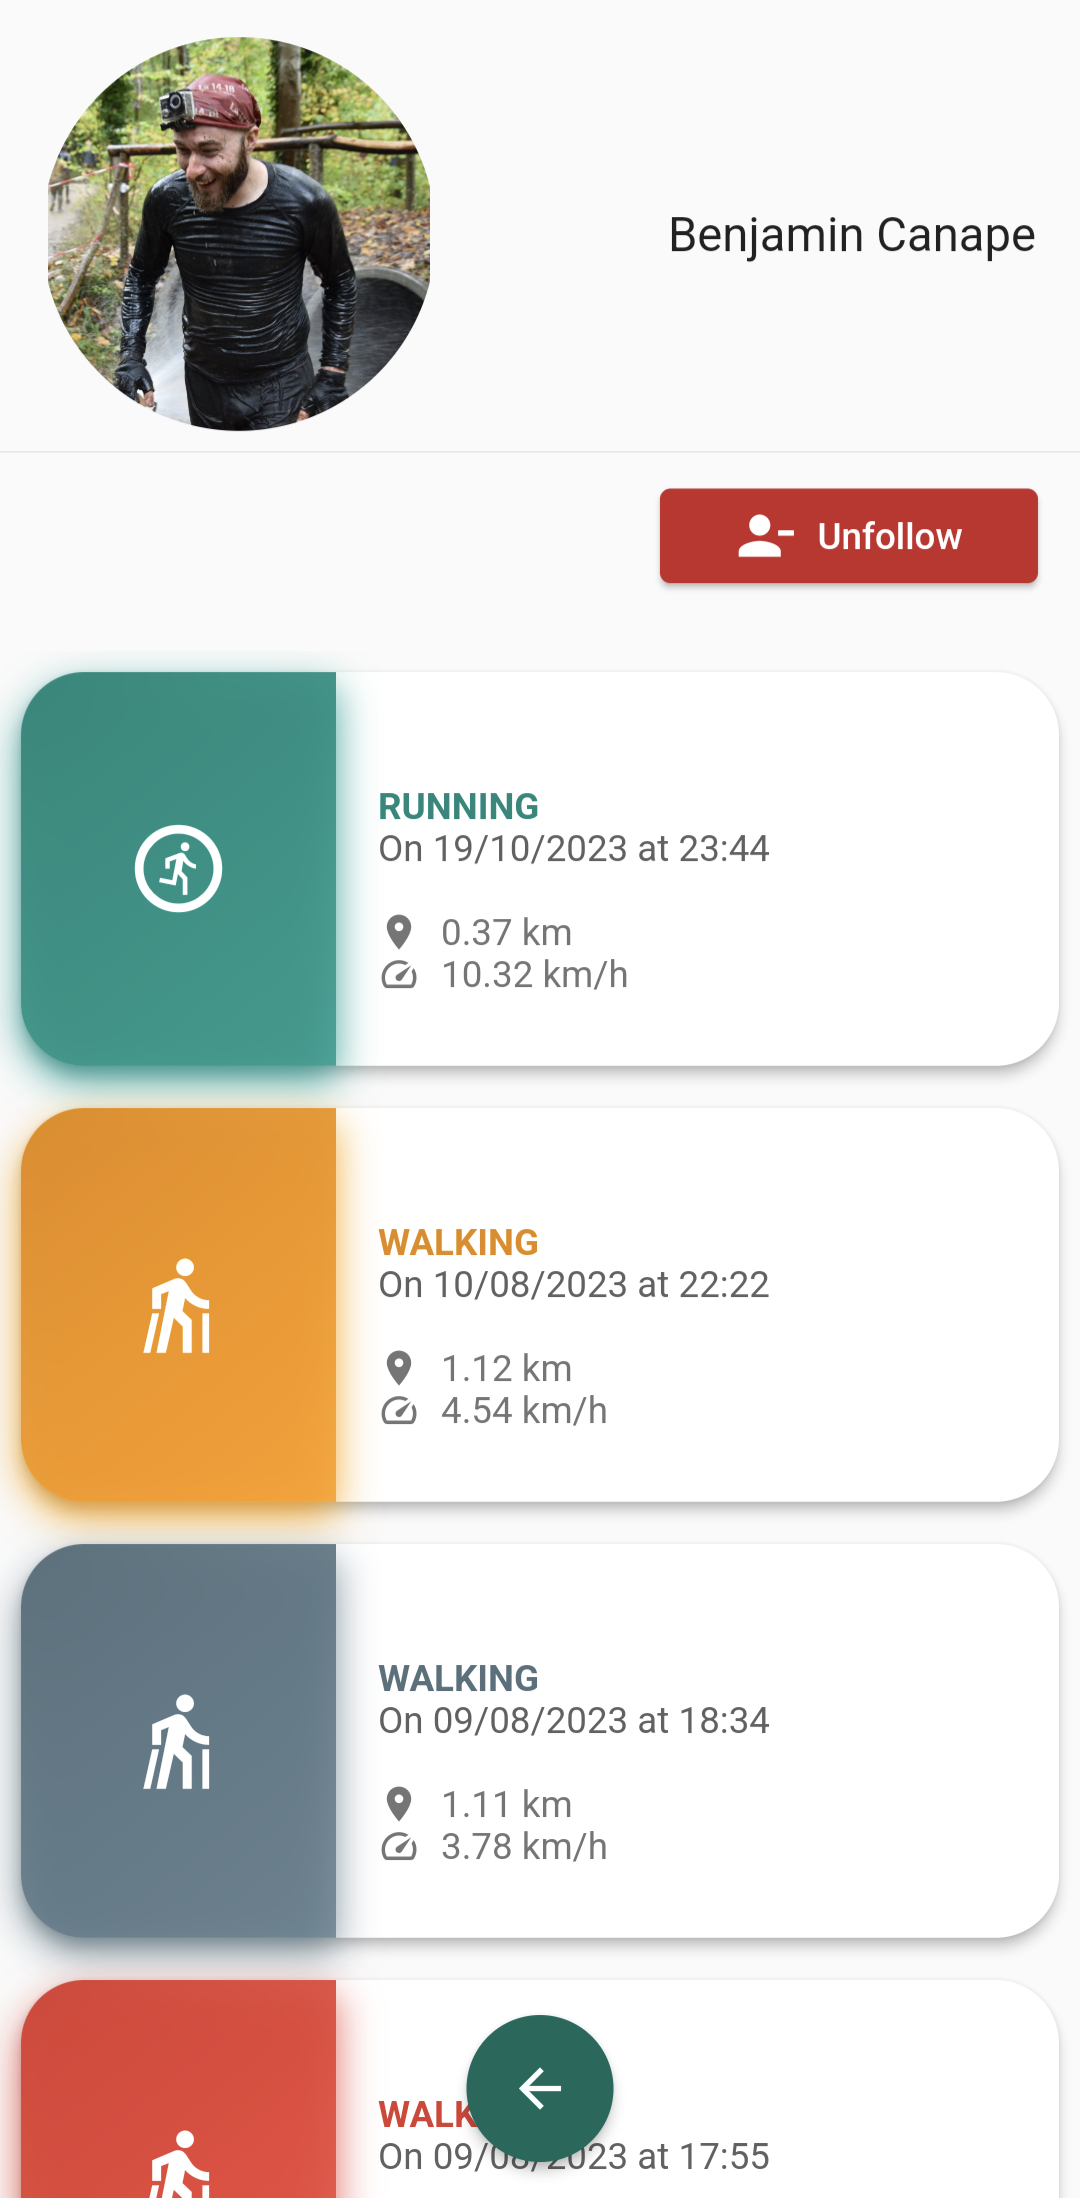
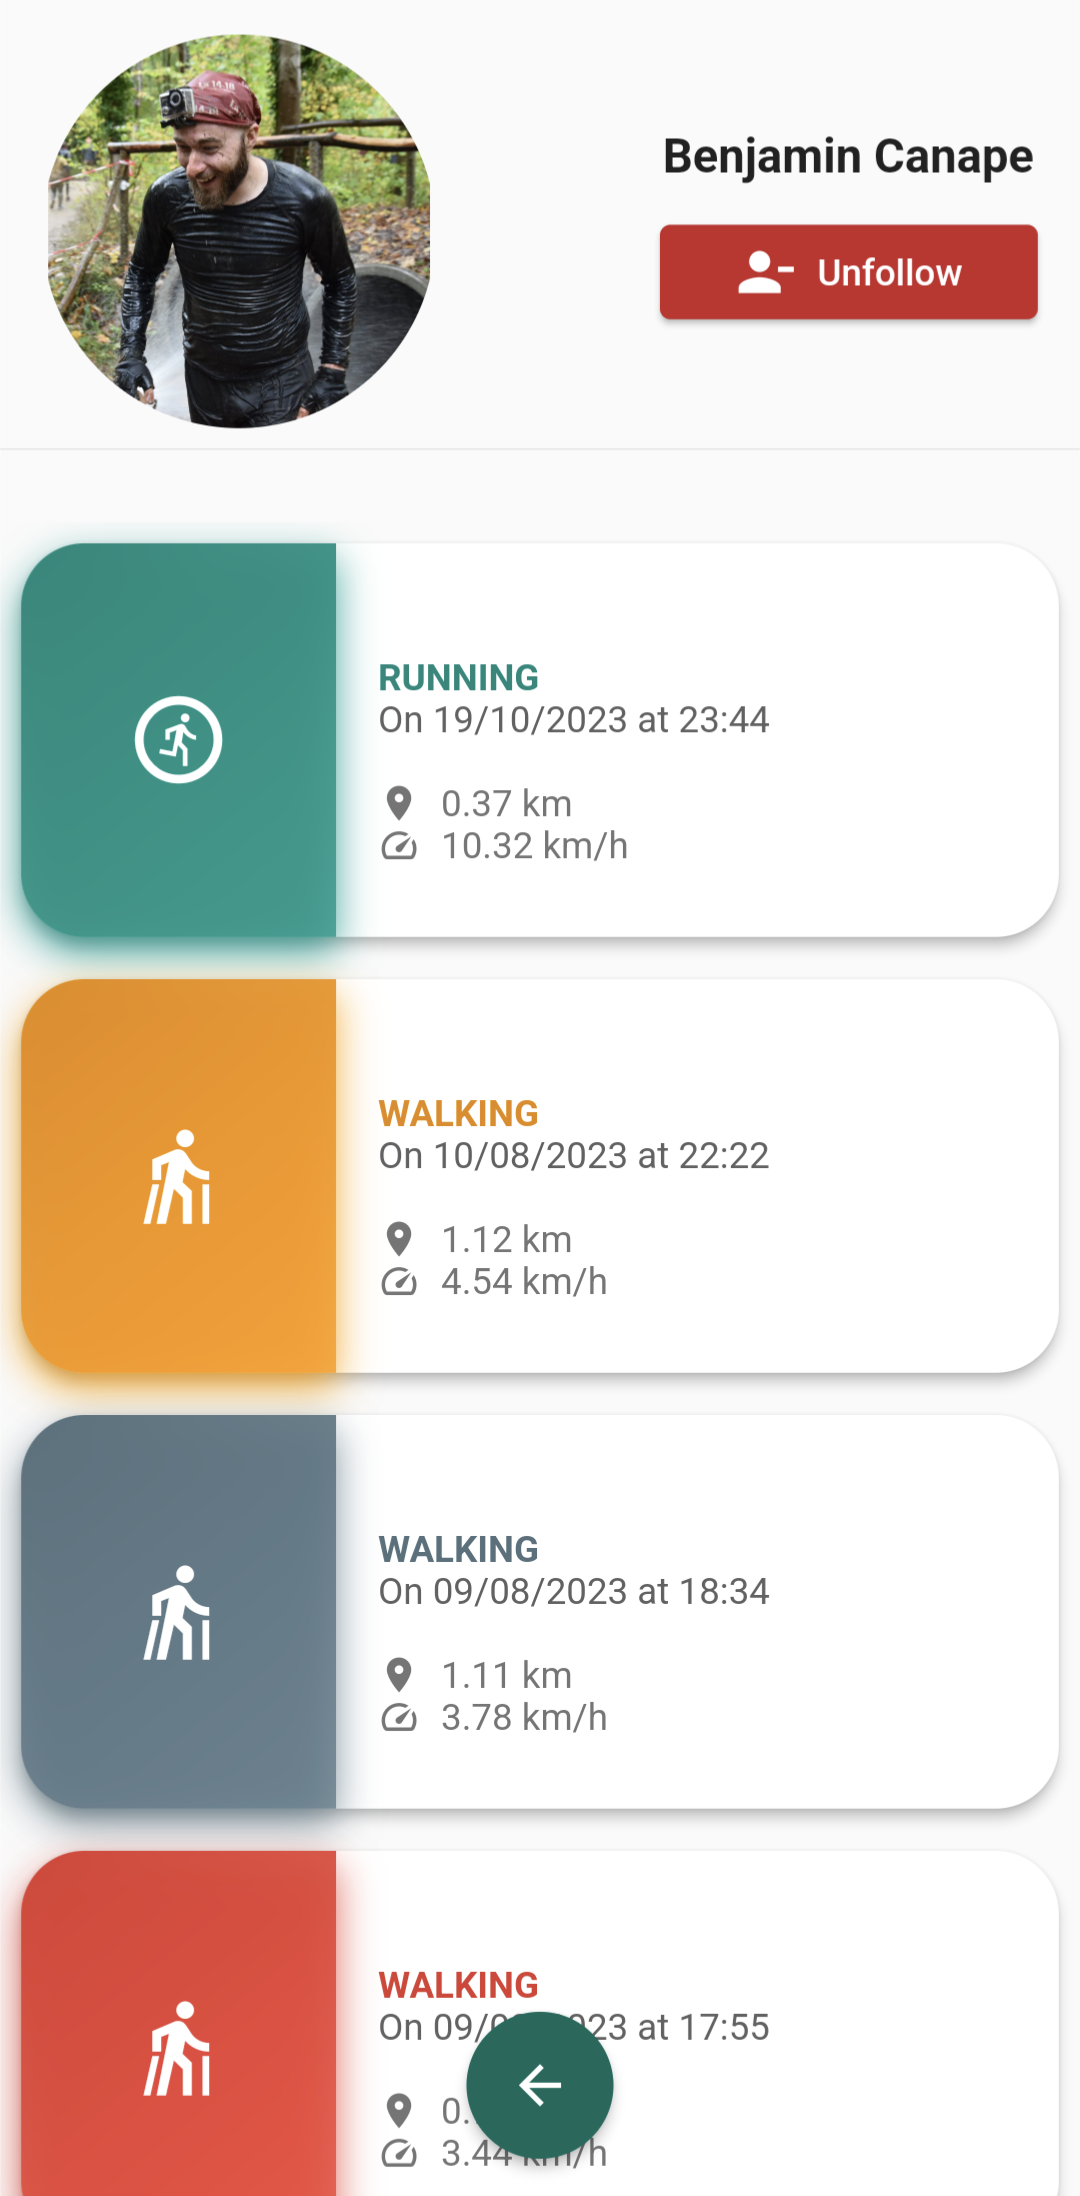
improve profile screen

diff --git a/lib/presentation/common/user/screens/profile_screen.dart b/lib/presentation/common/user/screens/profile_screen.dart
@@ -52,36 +52,34 @@ class ProfileScreen extends HookConsumerWidget {
                           ),
                         ),
                         Flexible(
-                          child: Text(
-                            user.firstname != null && user.lastname != null
-                                ? '${user.firstname} ${user.lastname}'
-                                : user.username,
-                            style: const TextStyle(fontSize: 18),
-                            overflow: TextOverflow.ellipsis,
-                            maxLines: 1,
-                          ),
+                          child: Column(children: [
+                            Text(
+                              user.firstname != null && user.lastname != null
+                                  ? '${user.firstname} ${user.lastname}'
+                                  : user.username,
+                              style: const TextStyle(
+                                  fontSize: 18, fontWeight: FontWeight.bold),
+                              overflow: TextOverflow.ellipsis,
+                              maxLines: 1,
+                            ),
+                            const SizedBox(height: 10),
+                            futureProvider.when(
+                              data: (_) {
+                                return FriendRequestWidget(userId: user.id);
+                              },
+                              loading: () {
+                                return const Center(child: UIUtils.loader);
+                              },
+                              error: (error, stackTrace) {
+                                return Text('$error');
+                              },
+                            ),
+                          ]),
                         ),
                       ],
                     ),
                   ),
                   const Divider(),
-                  Align(
-                    alignment: Alignment.centerRight,
-                    child: Padding(
-                      padding: const EdgeInsets.only(right: 16),
-                      child: futureProvider.when(
-                        data: (_) {
-                          return FriendRequestWidget(userId: user.id);
-                        },
-                        loading: () {
-                          return const Center(child: UIUtils.loader);
-                        },
-                        error: (error, stackTrace) {
-                          return Text('$error');
-                        },
-                      ),
-                    ),
-                  ),
                   const SizedBox(height: 20),
                   ActivityList(
                     activities: state.activities,
